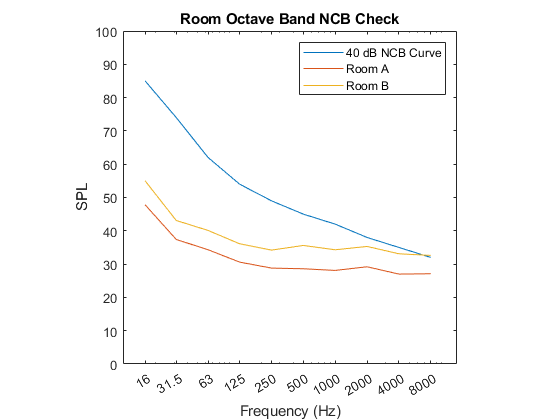
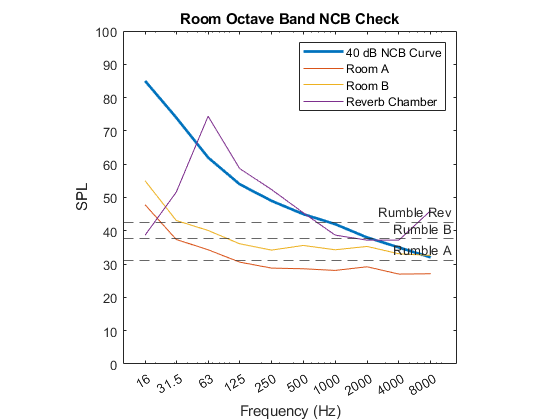
New fig changes and clean

diff --git a/req4.m b/req4.m
@@ -1,16 +1,18 @@
 close all;
 
-tob_cf = [250, 315, 400, 500, 630, 800, 1000, ...
+third_cf = [250, 315, 400, 500, 630, 800, 1000, ...
     1250, 1600, 2000, 2500, 3150, 4000];
 
 rooms = ["a", "b"];
 positions = ["a", "b"];
 
 addpath data\feat2\
-for room = rooms
-    for pos = positions
+for room = 1:length(rooms)
+    EDT = zeros(length(positions), length(third_cf));
+    T20 = zeros(length(positions), length(third_cf));
+    for pos = 1:length(positions)
 
-        filename = sprintf("imp_resp_%s_%s.mat", room, pos);
+        filename = sprintf("imp_resp_%s_%s.mat", rooms(room), positions(pos));
         imp_resp = load(filename).y(4.75e4:9.55e4); 
         EDC = [];
         
@@ -18,8 +20,8 @@ for room = rooms
         
         labels = [];
         y = [];
-        for cf = 1:length(tob_cf)
-            [B,A] = oct3dsgn(tob_cf(cf), 4.8e4, 3);
+        for cf = 1:length(third_cf)
+            [B,A] = oct3dsgn(third_cf(cf), 4.8e4, 3);
             y = filter(B,A,imp_resp);
             
             for kk = 1:length(y)
@@ -29,18 +31,35 @@ for room = rooms
             % Normalise
             EDC = 10*log10(EDC/max(EDC));
 
-            EDT = RTcalc("EDT", EDC);
-            T20 = RTcalc("T20", EDC);
+            EDT(pos,cf) = RTcalc("EDT", EDC);
+            T20(pos,cf) = RTcalc("T20", EDC);
 
-            plot(EDC); axis square
-            hold on
+            plot(EDC); axis square; hold on;
 
-            title(sprintf("EDC - Room %s, Position %s", upper(room), upper(pos)));
+            title(sprintf("EDC - Room %s, Position %s", upper(rooms(room)), upper(positions(pos))));
             ylabel("Level (dB)");
             xlabel("Time (\times10^{-4} s)");
 
-            labels = [labels sprintf("%.1fHz %.2fs %.2fs", tob_cf(cf), EDT, T20)];
         end
+        hold off;
+        figure;
+        
+        semilogx(third_cf, EDT(1,:)); axis square; hold on
+        semilogx(third_cf, EDT(2,:))
+        semilogx(third_cf, T20(1,:));
+        semilogx(third_cf, T20(2,:));
+        hold off;
+        
+        title(sprintf("Reverberation Time - Room %s", upper(rooms(room))));
+        ylabel("RT (s)");
+        xlabel("Frequency (Hz)");
+
+        xticks(third_cf);
+
+        labels =   ["EDT - position A"
+                    "EDT - position B"
+                    "T20 - position A"
+                    "T20 - position B"];
         legend(labels);
     end
 end

diff --git a/req2.m b/req2.m
@@ -1,18 +1,26 @@
 close all;
 
+CAL = -2.3;
+
 cent_freq = [16, 31.5, 63, 125, 250, 500, 1000, 2000, 4000, 8000];
 dB40 = [85, 74, 62, 54, 49, 45, 42, 38 ,35, 32];
-room_a = [50.1, 39.7, 36.6, 32.9, 31.1, 30.9, 30.4, 31.5, 29.3, 29.4] - 2.3; 
-room_b = [57.3, 45.4, 42.4, 38.4, 36.5, 37.9, 36.6, 37.6, 35.4, 34.9] - 2.3;
+room_a = [50.1, 39.7, 36.6, 32.9, 31.1, 30.9, 30.4, 31.5, 29.3, 29.4] + CAL; 
+room_b = [57.3, 45.4, 42.4, 38.4, 36.5, 37.9, 36.6, 37.6, 35.4, 34.9] + CAL;
+reverb = [41  , 53.9, 76.7, 61  , 54.7, 47.7, 41  , 39.5, 39.5, 48.4] + CAL;
 
-SIL_a = mean([30.5, 31.6, 29.4]);
-SIL_b = mean([31.1, 31, 31.6, 29.7]);
+SIL_a = mean(room_a(6:9));
+SIL_b = mean(room_b(6:9));
+SIL_r = mean(reverb(6:9));
 
 figure;
-semilogx(cent_freq, dB40); axis square;
+semilogx(cent_freq, dB40, "LineWidth", 2); axis square;
 hold on;
 semilogx(cent_freq, room_a);
 semilogx(cent_freq, room_b);
+semilogx(cent_freq, reverb);
+yline(SIL_a+3, 'label', "Rumble A", 'LineStyle', '--');
+yline(SIL_b+3, 'label', "Rumble B", 'LineStyle', '--');
+yline(SIL_r+3, 'label', "Rumble Rev", 'LineStyle', '--');
 
 xlim([10, 14e3]);
 ylim([0, 100]);
@@ -23,4 +31,4 @@ title("Room Octave Band NCB Check");
 ylabel("SPL");
 xlabel("Frequency (Hz)");
 
-legend(["40 dB NCB Curve", "Room A", "Room B"]);
+legend(["40 dB NCB Curve", "Room A", "Room B", "Reverb Chamber"]);

diff --git a/req1.m b/req1.m
@@ -23,3 +23,4 @@ for ii = 1:4
 
     hold off;
 end
+
